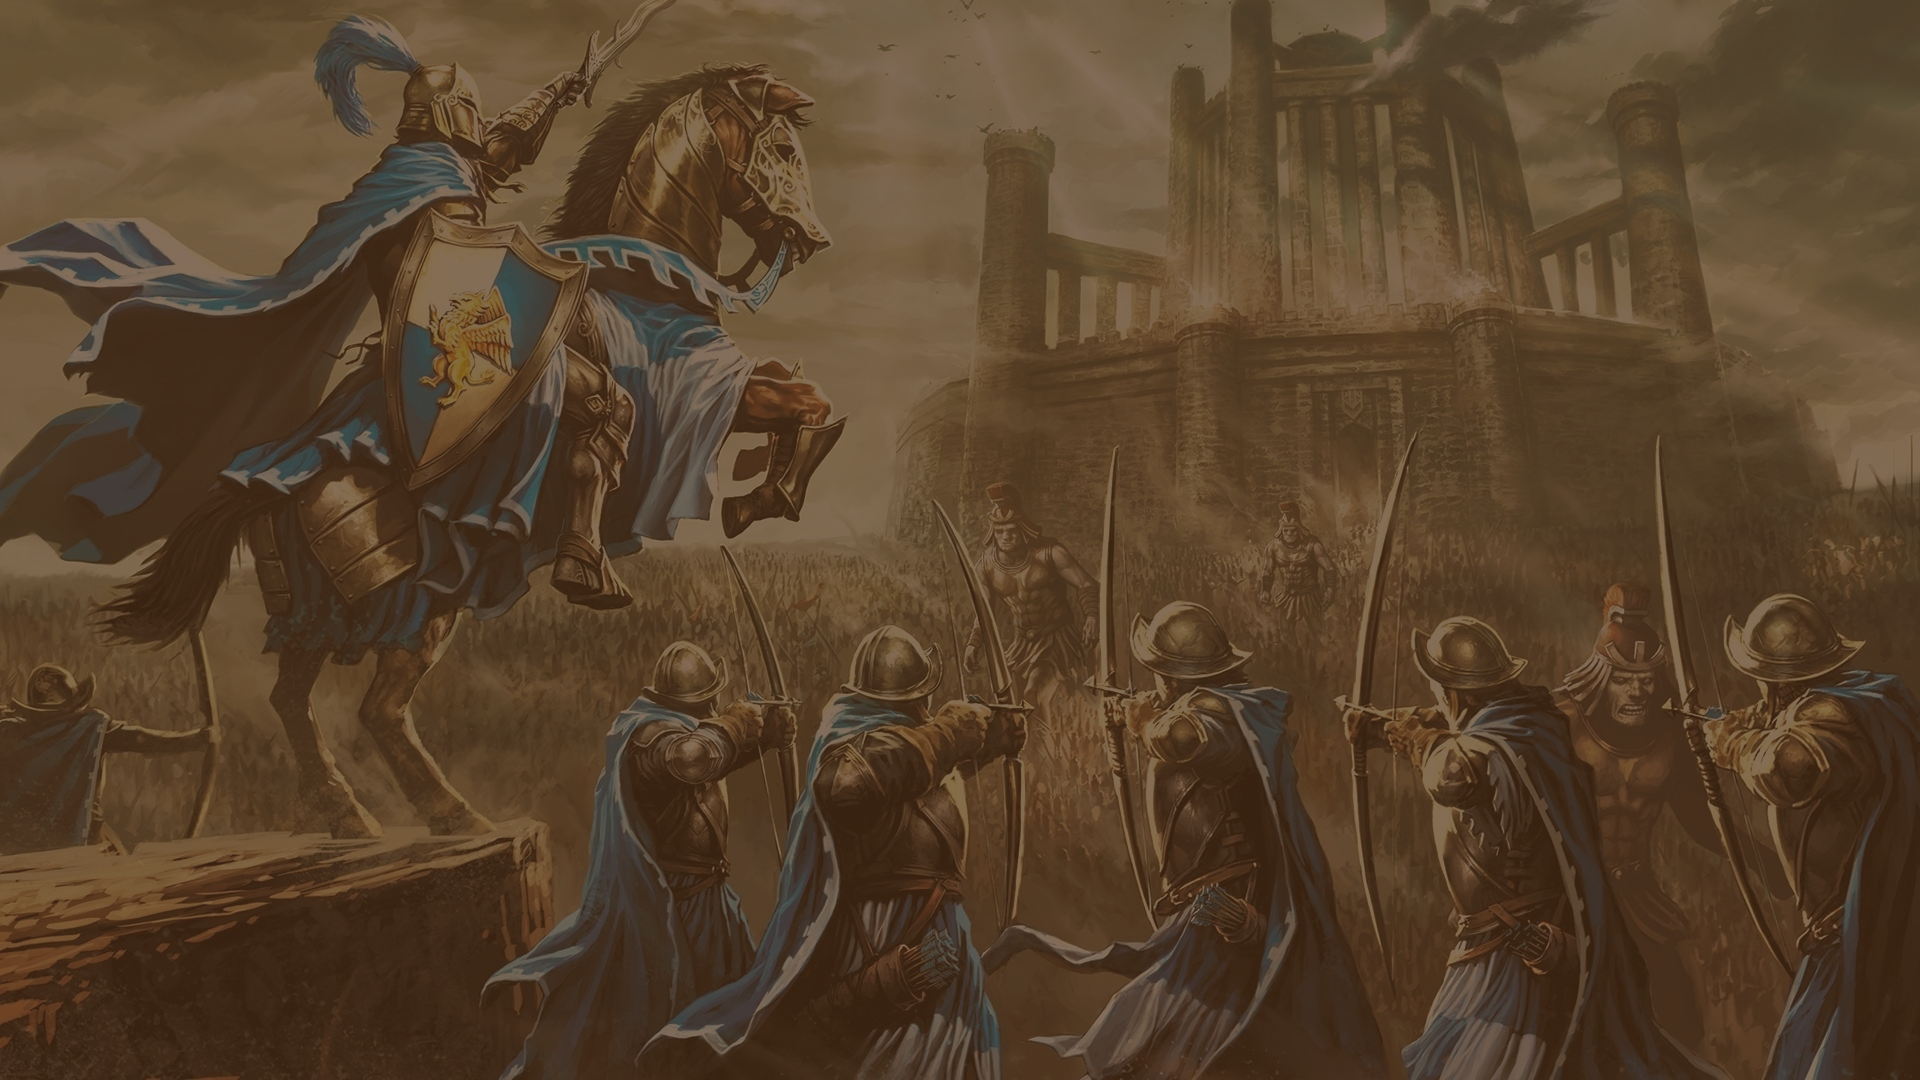
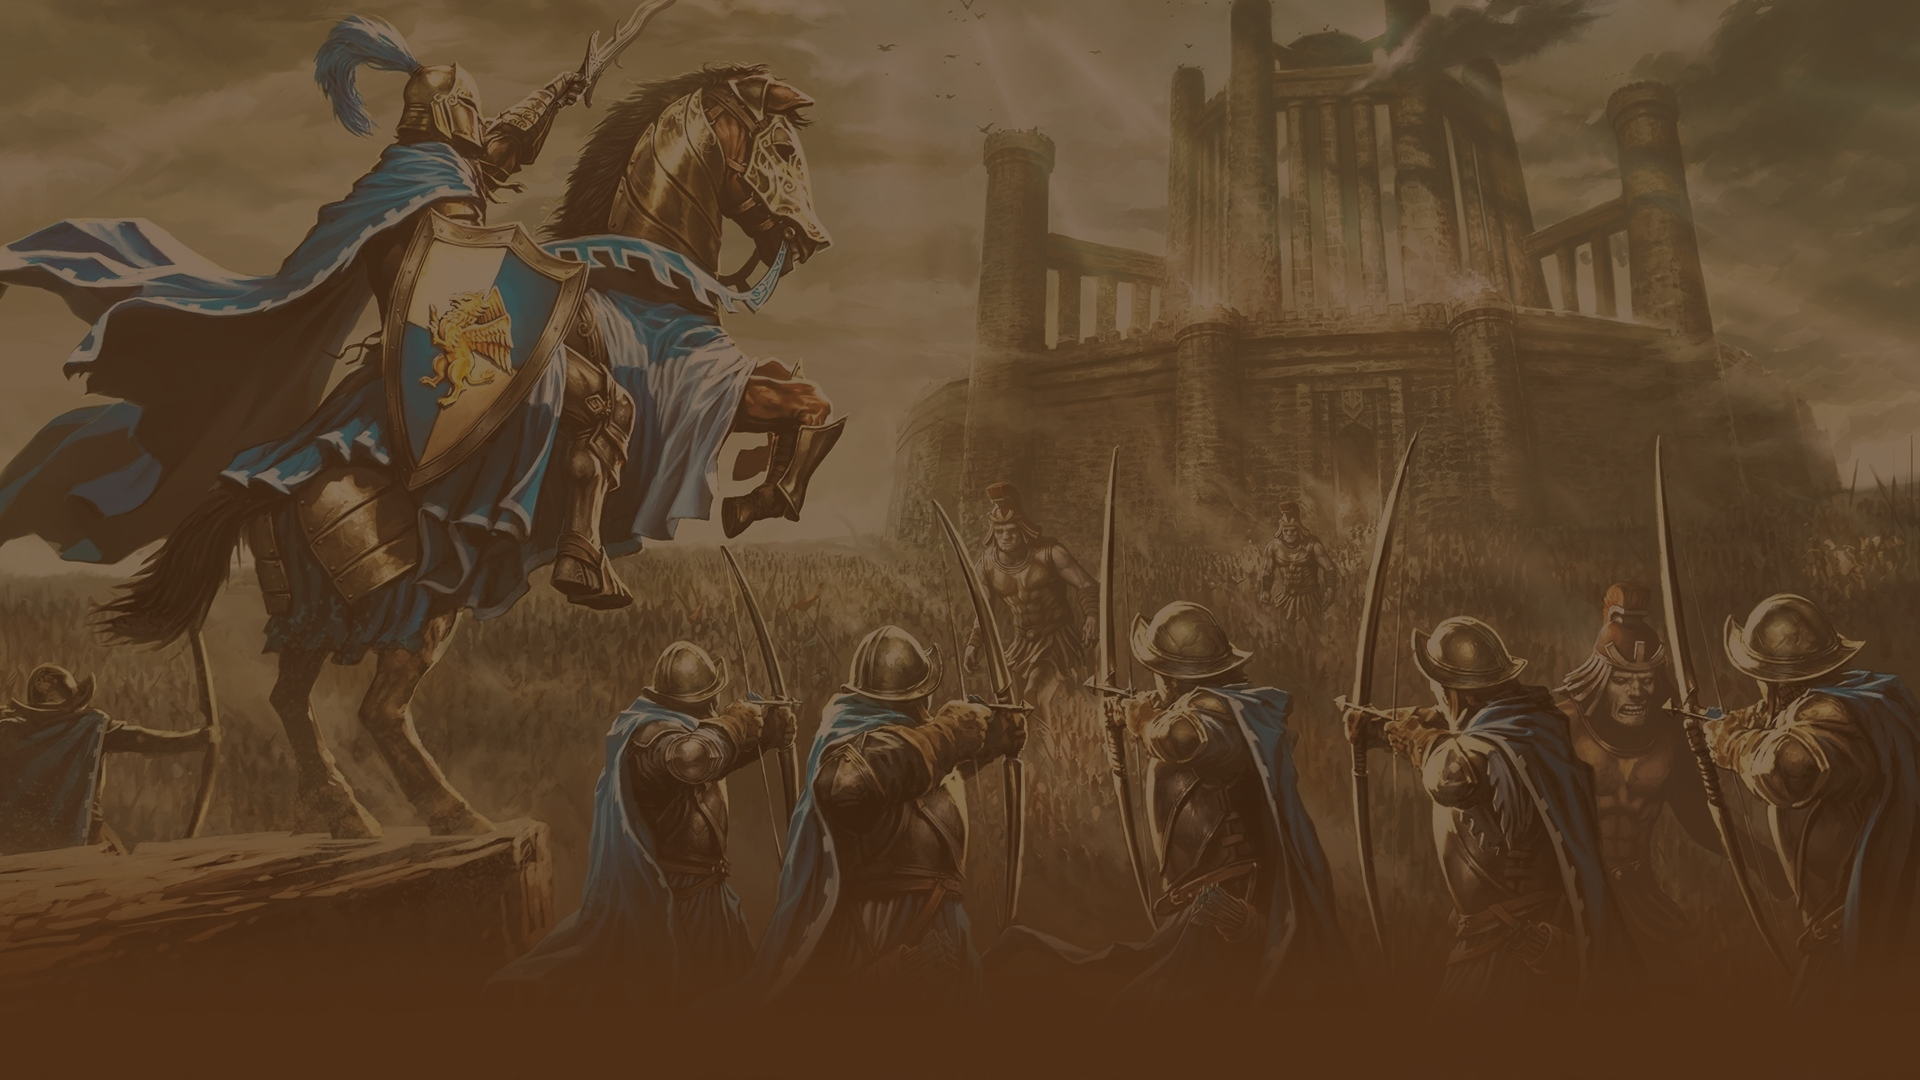
Style fixes.

diff --git a/src/styles/main.scss b/src/styles/main.scss
@@ -1,9 +1,8 @@
 @import "./variables.scss";
 
 body {
+    background-color: $background-color;
     background-image: url("../images/background.png");
-    background-size: cover;
-    background-repeat: no-repeat;
 
     ::-webkit-scrollbar {
         display: none;
@@ -19,16 +18,17 @@ body {
     text-align: center;
 
     img {
-        width: 20%;
-        box-shadow: 0 8px 6px -6px black;
+        height: 150px;
     }
 }
 
 /* apply a natural box layout model to all elements, but allowing components to change */
 html {
     box-sizing: border-box;
-  }
+}
 
-  *, *:before, *:after {
+*,
+*:before,
+*:after {
     box-sizing: inherit;
-  }
+}

diff --git a/src/styles/variables.scss b/src/styles/variables.scss
@@ -1,5 +1,6 @@
-$title-font: 50px; //Font for main title 
+$title-font: 50px; //Font for main title
 $sub-element-font: 20px; //Sub-element font
-@import url('https://fonts.googleapis.com/css?family=Vollkorn&display=swap'); //main-font
-$main-font: 'Vollkorn', serif;
-$hover-color:#fca103;
+@import url("https://fonts.googleapis.com/css?family=Vollkorn&display=swap"); //main-font
+$main-font: "Vollkorn", serif;
+$hover-color: #fca103;
+$background-color: #4f2f16;

diff --git a/src/components/main-design/main-design.scss b/src/components/main-design/main-design.scss
@@ -6,7 +6,6 @@
     max-width: 1200px;
     margin: 0 auto;
     width: 100%;
-    justify-content: flex-start;
     margin-top: 50px;
 
     &__town, &__creature {
